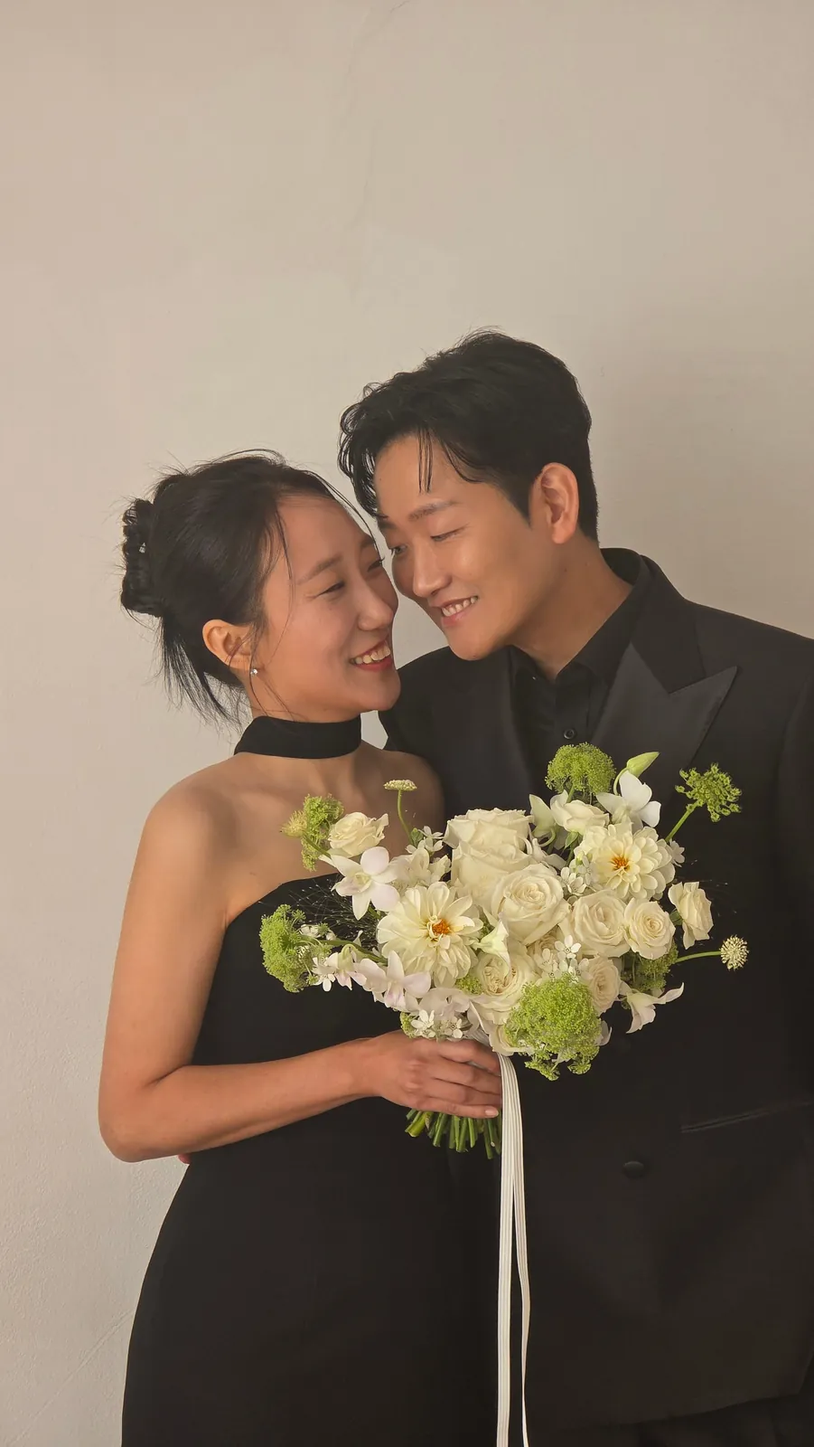
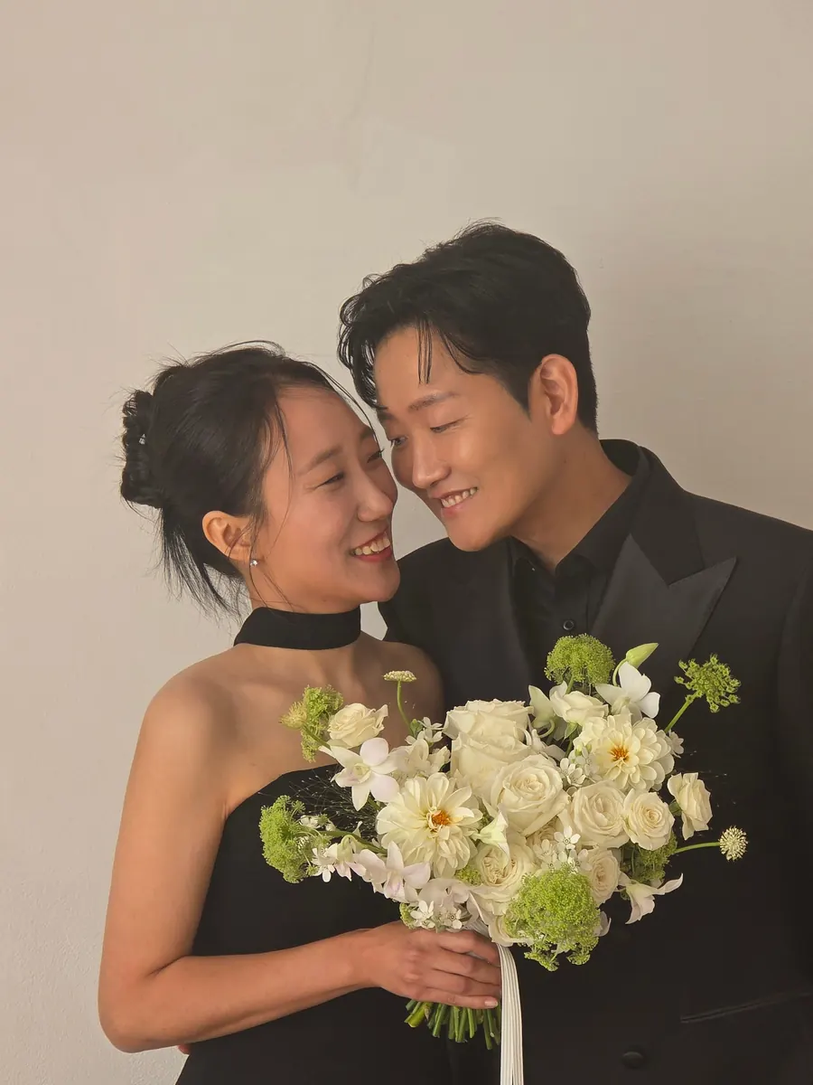
⚡ 사진 로딩 절반으로 줄이고 1년 캐시, 사진 연출 시간 단축
- 사진을 미리 3:4로 잘라 카드 900×1200, 작은 사진 168×224 로 (2.48MB → 1.24MB)
- /images/gallery 는 1년 immutable 캐시, 사진이 바뀌면 ?v=<내용 해시> 로 새로 받음
- 연출 시간: 레트로는 원래보다 약 25%, 터미널은 약 48% 빠르게
  (터미널 ASCII 다운로드 ~0.8초, 레트로 모자이크 0.5초, 카드 넘김 0.27/0.38초)

diff --git a/terminal.html b/terminal.html
@@ -175,7 +175,7 @@
         .stack { position: relative; aspect-ratio: 3 / 4; margin: 18px 12px 0 2px; touch-action: pan-y; user-select: none; -webkit-user-select: none; }
         .stack:focus-visible { outline: 2px solid var(--accent); outline-offset: 8px; }
         .stack .slide { position: absolute; inset: 0; touch-action: pan-y; cursor: grab; contain: layout paint;
-            transition: transform .45s cubic-bezier(.2, .7, .2, 1), opacity .35s; }
+            transition: transform .27s cubic-bezier(.2, .7, .2, 1), opacity .21s; }
         .stack .slide.drag { transition: none; cursor: grabbing; }
         .stack .slide img { display: block; width: 100%; height: 100%; object-fit: cover; object-position: 50% 30%; pointer-events: none; -webkit-user-drag: none; }
         .car-bar { display: flex; align-items: center; margin-top: 28px; }
@@ -188,7 +188,7 @@
         .stack .slide img { border-radius: 8px; background: #0b0b0d; }
         /* download reveal: as the bar fills, the photo is typed out as ASCII art row by row, then fades into the real photo */
         .dl-ascii { position: absolute; left: 8px; top: 8px; width: calc(100% - 16px); height: calc(100% - 42px); border-radius: 8px; background: #0b0b0d; pointer-events: none;
-            transition: opacity .6s, visibility 0s .6s; }
+            transition: opacity .34s, visibility 0s .34s; }
         .stack .slide.got .dl-ascii { opacity: 0; visibility: hidden; }
         .stack .slide::after { content: attr(data-name); position: absolute; left: 14px; bottom: 9px; font-family: var(--mono); font-size: 12px; color: var(--faint); }
         .dl-ov { position: absolute; left: 8px; right: 8px; bottom: 34px; display: flex; align-items: center; gap: 8px; padding: 22px 12px 10px; border-radius: 0 0 8px 8px;
@@ -468,21 +468,21 @@
             <p class="dl-total reveal" id="dl-total" aria-live="polite"></p>
             <div class="reveal">
                 <div class="stack" id="gallery-grid" tabindex="0" aria-label="웨딩 사진 카드, 좌우 화살표로 넘기기">
-                    <div class="slide" data-name="01.jpg" data-thumb="images/gallery/01-s.webp"><img src="images/gallery/01.webp" alt="베일을 쓰고 부케를 든 신부" width="900" height="1600" decoding="async"><canvas class="dl-ascii" aria-hidden="true"></canvas><div class="dl-ov" aria-hidden="true"><span>01.jpg</span><span class="bar">[░░░░░░░░]</span><span class="pct">queued</span></div></div>
-                    <div class="slide" data-name="02.jpg" data-thumb="images/gallery/02-s.webp"><img src="images/gallery/02.webp" alt="흰 턱시도 재킷 차림으로 부케를 든 신랑" width="900" height="1600" loading="lazy" decoding="async"><canvas class="dl-ascii" aria-hidden="true"></canvas><div class="dl-ov" aria-hidden="true"><span>02.jpg</span><span class="bar">[░░░░░░░░]</span><span class="pct">queued</span></div></div>
-                    <div class="slide" data-name="03.jpg" data-thumb="images/gallery/03-s.webp"><img src="images/gallery/03.webp" alt="정원에서 베일을 쓰고 앉은 신부" width="900" height="1600" loading="lazy" decoding="async"><canvas class="dl-ascii" aria-hidden="true"></canvas><div class="dl-ov" aria-hidden="true"><span>03.jpg</span><span class="bar">[░░░░░░░░]</span><span class="pct">queued</span></div></div>
-                    <div class="slide" data-name="04.jpg" data-thumb="images/gallery/04-s.webp"><img src="images/gallery/04.webp" alt="나무 벽 앞 의자에 앉은 신랑" width="900" height="1600" loading="lazy" decoding="async"><canvas class="dl-ascii" aria-hidden="true"></canvas><div class="dl-ov" aria-hidden="true"><span>04.jpg</span><span class="bar">[░░░░░░░░]</span><span class="pct">queued</span></div></div>
-                    <div class="slide" data-name="05.jpg" data-thumb="images/gallery/05-s.webp"><img src="images/gallery/05.webp" alt="창가에서 서로 마주 보는 신랑과 신부" width="900" height="1600" loading="lazy" decoding="async"><canvas class="dl-ascii" aria-hidden="true"></canvas><div class="dl-ov" aria-hidden="true"><span>05.jpg</span><span class="bar">[░░░░░░░░]</span><span class="pct">queued</span></div></div>
-                    <div class="slide" data-name="06.jpg" data-thumb="images/gallery/06-s.webp"><img src="images/gallery/06.webp" alt="베일 아래에서 얼굴을 맞댄 신랑과 신부" width="900" height="1600" loading="lazy" decoding="async"><canvas class="dl-ascii" aria-hidden="true"></canvas><div class="dl-ov" aria-hidden="true"><span>06.jpg</span><span class="bar">[░░░░░░░░]</span><span class="pct">queued</span></div></div>
-                    <div class="slide" data-name="07.jpg" data-thumb="images/gallery/07-s.webp"><img src="images/gallery/07.webp" alt="숲속에서 이마를 맞댄 신랑과 신부" width="900" height="1600" loading="lazy" decoding="async"><canvas class="dl-ascii" aria-hidden="true"></canvas><div class="dl-ov" aria-hidden="true"><span>07.jpg</span><span class="bar">[░░░░░░░░]</span><span class="pct">queued</span></div></div>
-                    <div class="slide" data-name="08.jpg" data-thumb="images/gallery/08-s.webp"><img src="images/gallery/08.webp" alt="나무 아래 정원에서 마주 보는 신랑과 신부" width="900" height="1600" loading="lazy" decoding="async"><canvas class="dl-ascii" aria-hidden="true"></canvas><div class="dl-ov" aria-hidden="true"><span>08.jpg</span><span class="bar">[░░░░░░░░]</span><span class="pct">queued</span></div></div>
-                    <div class="slide" data-name="09.jpg" data-thumb="images/gallery/09-s.webp"><img src="images/gallery/09.webp" alt="정원 잔디에 앉은 신부와 그 앞에 선 신랑" width="900" height="1600" loading="lazy" decoding="async"><canvas class="dl-ascii" aria-hidden="true"></canvas><div class="dl-ov" aria-hidden="true"><span>09.jpg</span><span class="bar">[░░░░░░░░]</span><span class="pct">queued</span></div></div>
-                    <div class="slide" data-name="10.jpg" data-thumb="images/gallery/10-s.webp"><img src="images/gallery/10.webp" alt="검은 드레스와 턱시도 차림으로 기대어 선 신랑과 신부" width="900" height="1600" loading="lazy" decoding="async"><canvas class="dl-ascii" aria-hidden="true"></canvas><div class="dl-ov" aria-hidden="true"><span>10.jpg</span><span class="bar">[░░░░░░░░]</span><span class="pct">queued</span></div></div>
-                    <div class="slide" data-name="11.jpg" data-thumb="images/gallery/11-s.webp"><img src="images/gallery/11.webp" alt="흰 벽 앞에 나란히 서서 웃는 검은 옷차림의 신랑과 신부" width="900" height="1600" loading="lazy" decoding="async"><canvas class="dl-ascii" aria-hidden="true"></canvas><div class="dl-ov" aria-hidden="true"><span>11.jpg</span><span class="bar">[░░░░░░░░]</span><span class="pct">queued</span></div></div>
-                    <div class="slide" data-name="12.jpg" data-thumb="images/gallery/12-s.webp"><img src="images/gallery/12.webp" alt="얼굴을 맞대고 웃는 신랑과 신부" width="900" height="1600" loading="lazy" decoding="async"><canvas class="dl-ascii" aria-hidden="true"></canvas><div class="dl-ov" aria-hidden="true"><span>12.jpg</span><span class="bar">[░░░░░░░░]</span><span class="pct">queued</span></div></div>
-                    <div class="slide" data-name="13.jpg" data-thumb="images/gallery/13-s.webp"><img src="images/gallery/13.webp" alt="나무 벽 앞에서 신랑을 끌어안고 웃는 신부" width="900" height="1600" loading="lazy" decoding="async"><canvas class="dl-ascii" aria-hidden="true"></canvas><div class="dl-ov" aria-hidden="true"><span>13.jpg</span><span class="bar">[░░░░░░░░]</span><span class="pct">queued</span></div></div>
-                    <div class="slide" data-name="14.jpg" data-thumb="images/gallery/14-s.webp"><img src="images/gallery/14.webp" alt="검은 배경 앞에 나란히 선 신랑과 신부" width="900" height="1600" loading="lazy" decoding="async"><canvas class="dl-ascii" aria-hidden="true"></canvas><div class="dl-ov" aria-hidden="true"><span>14.jpg</span><span class="bar">[░░░░░░░░]</span><span class="pct">queued</span></div></div>
-                    <div class="slide" data-name="15.jpg" data-thumb="images/gallery/15-s.webp"><img src="images/gallery/15.webp" alt="햇살 드는 소파에 나란히 앉은 신랑과 신부" width="900" height="1600" loading="lazy" decoding="async"><canvas class="dl-ascii" aria-hidden="true"></canvas><div class="dl-ov" aria-hidden="true"><span>15.jpg</span><span class="bar">[░░░░░░░░]</span><span class="pct">queued</span></div></div>
+                    <div class="slide" data-name="01.jpg" data-thumb="images/gallery/01-s.webp?v=bed827a6"><img src="images/gallery/01.webp?v=bed827a6" alt="베일을 쓰고 부케를 든 신부" width="900" height="1200" decoding="async"><canvas class="dl-ascii" aria-hidden="true"></canvas><div class="dl-ov" aria-hidden="true"><span>01.jpg</span><span class="bar">[░░░░░░░░]</span><span class="pct">queued</span></div></div>
+                    <div class="slide" data-name="02.jpg" data-thumb="images/gallery/02-s.webp?v=bed827a6"><img src="images/gallery/02.webp?v=bed827a6" alt="흰 턱시도 재킷 차림으로 부케를 든 신랑" width="900" height="1200" loading="lazy" decoding="async"><canvas class="dl-ascii" aria-hidden="true"></canvas><div class="dl-ov" aria-hidden="true"><span>02.jpg</span><span class="bar">[░░░░░░░░]</span><span class="pct">queued</span></div></div>
+                    <div class="slide" data-name="03.jpg" data-thumb="images/gallery/03-s.webp?v=bed827a6"><img src="images/gallery/03.webp?v=bed827a6" alt="정원에서 베일을 쓰고 앉은 신부" width="900" height="1200" loading="lazy" decoding="async"><canvas class="dl-ascii" aria-hidden="true"></canvas><div class="dl-ov" aria-hidden="true"><span>03.jpg</span><span class="bar">[░░░░░░░░]</span><span class="pct">queued</span></div></div>
+                    <div class="slide" data-name="04.jpg" data-thumb="images/gallery/04-s.webp?v=bed827a6"><img src="images/gallery/04.webp?v=bed827a6" alt="나무 벽 앞 의자에 앉은 신랑" width="900" height="1200" loading="lazy" decoding="async"><canvas class="dl-ascii" aria-hidden="true"></canvas><div class="dl-ov" aria-hidden="true"><span>04.jpg</span><span class="bar">[░░░░░░░░]</span><span class="pct">queued</span></div></div>
+                    <div class="slide" data-name="05.jpg" data-thumb="images/gallery/05-s.webp?v=bed827a6"><img src="images/gallery/05.webp?v=bed827a6" alt="창가에서 서로 마주 보는 신랑과 신부" width="900" height="1200" loading="lazy" decoding="async"><canvas class="dl-ascii" aria-hidden="true"></canvas><div class="dl-ov" aria-hidden="true"><span>05.jpg</span><span class="bar">[░░░░░░░░]</span><span class="pct">queued</span></div></div>
+                    <div class="slide" data-name="06.jpg" data-thumb="images/gallery/06-s.webp?v=bed827a6"><img src="images/gallery/06.webp?v=bed827a6" alt="베일 아래에서 얼굴을 맞댄 신랑과 신부" width="900" height="1200" loading="lazy" decoding="async"><canvas class="dl-ascii" aria-hidden="true"></canvas><div class="dl-ov" aria-hidden="true"><span>06.jpg</span><span class="bar">[░░░░░░░░]</span><span class="pct">queued</span></div></div>
+                    <div class="slide" data-name="07.jpg" data-thumb="images/gallery/07-s.webp?v=bed827a6"><img src="images/gallery/07.webp?v=bed827a6" alt="숲속에서 이마를 맞댄 신랑과 신부" width="900" height="1200" loading="lazy" decoding="async"><canvas class="dl-ascii" aria-hidden="true"></canvas><div class="dl-ov" aria-hidden="true"><span>07.jpg</span><span class="bar">[░░░░░░░░]</span><span class="pct">queued</span></div></div>
+                    <div class="slide" data-name="08.jpg" data-thumb="images/gallery/08-s.webp?v=bed827a6"><img src="images/gallery/08.webp?v=bed827a6" alt="나무 아래 정원에서 마주 보는 신랑과 신부" width="900" height="1200" loading="lazy" decoding="async"><canvas class="dl-ascii" aria-hidden="true"></canvas><div class="dl-ov" aria-hidden="true"><span>08.jpg</span><span class="bar">[░░░░░░░░]</span><span class="pct">queued</span></div></div>
+                    <div class="slide" data-name="09.jpg" data-thumb="images/gallery/09-s.webp?v=bed827a6"><img src="images/gallery/09.webp?v=bed827a6" alt="정원 잔디에 앉은 신부와 그 앞에 선 신랑" width="900" height="1200" loading="lazy" decoding="async"><canvas class="dl-ascii" aria-hidden="true"></canvas><div class="dl-ov" aria-hidden="true"><span>09.jpg</span><span class="bar">[░░░░░░░░]</span><span class="pct">queued</span></div></div>
+                    <div class="slide" data-name="10.jpg" data-thumb="images/gallery/10-s.webp?v=bed827a6"><img src="images/gallery/10.webp?v=bed827a6" alt="검은 드레스와 턱시도 차림으로 기대어 선 신랑과 신부" width="900" height="1200" loading="lazy" decoding="async"><canvas class="dl-ascii" aria-hidden="true"></canvas><div class="dl-ov" aria-hidden="true"><span>10.jpg</span><span class="bar">[░░░░░░░░]</span><span class="pct">queued</span></div></div>
+                    <div class="slide" data-name="11.jpg" data-thumb="images/gallery/11-s.webp?v=bed827a6"><img src="images/gallery/11.webp?v=bed827a6" alt="흰 벽 앞에 나란히 서서 웃는 검은 옷차림의 신랑과 신부" width="900" height="1200" loading="lazy" decoding="async"><canvas class="dl-ascii" aria-hidden="true"></canvas><div class="dl-ov" aria-hidden="true"><span>11.jpg</span><span class="bar">[░░░░░░░░]</span><span class="pct">queued</span></div></div>
+                    <div class="slide" data-name="12.jpg" data-thumb="images/gallery/12-s.webp?v=bed827a6"><img src="images/gallery/12.webp?v=bed827a6" alt="얼굴을 맞대고 웃는 신랑과 신부" width="900" height="1200" loading="lazy" decoding="async"><canvas class="dl-ascii" aria-hidden="true"></canvas><div class="dl-ov" aria-hidden="true"><span>12.jpg</span><span class="bar">[░░░░░░░░]</span><span class="pct">queued</span></div></div>
+                    <div class="slide" data-name="13.jpg" data-thumb="images/gallery/13-s.webp?v=bed827a6"><img src="images/gallery/13.webp?v=bed827a6" alt="나무 벽 앞에서 신랑을 끌어안고 웃는 신부" width="900" height="1200" loading="lazy" decoding="async"><canvas class="dl-ascii" aria-hidden="true"></canvas><div class="dl-ov" aria-hidden="true"><span>13.jpg</span><span class="bar">[░░░░░░░░]</span><span class="pct">queued</span></div></div>
+                    <div class="slide" data-name="14.jpg" data-thumb="images/gallery/14-s.webp?v=bed827a6"><img src="images/gallery/14.webp?v=bed827a6" alt="검은 배경 앞에 나란히 선 신랑과 신부" width="900" height="1200" loading="lazy" decoding="async"><canvas class="dl-ascii" aria-hidden="true"></canvas><div class="dl-ov" aria-hidden="true"><span>14.jpg</span><span class="bar">[░░░░░░░░]</span><span class="pct">queued</span></div></div>
+                    <div class="slide" data-name="15.jpg" data-thumb="images/gallery/15-s.webp?v=bed827a6"><img src="images/gallery/15.webp?v=bed827a6" alt="햇살 드는 소파에 나란히 앉은 신랑과 신부" width="900" height="1200" loading="lazy" decoding="async"><canvas class="dl-ascii" aria-hidden="true"></canvas><div class="dl-ov" aria-hidden="true"><span>15.jpg</span><span class="bar">[░░░░░░░░]</span><span class="pct">queued</span></div></div>
                 </div>
                 <div class="car-bar">
                     <span class="count"><span class="ps">$</span> next <span id="car-count"></span></span>
@@ -868,7 +868,7 @@
                 b.classList.add('got');
                 saved++;
                 setTotal();
-            }, reduceMotion ? 0 : 250 + j * 160));
+            }, reduceMotion ? 0 : 130 + j * 84));
         }
         // photo → ASCII art on a canvas; draw(f) types out rows up to fraction f (only the new rows each call)
         const RAMP = ' .:-=+*#%@', NOISE = 'ABCDEFGHIJKLMNOPQRSTUVWXYZ0123456789@#$%&*<>{}[]=+-';
@@ -920,7 +920,7 @@
             let art = null;                                       // ASCII renderer, ready once the photo is decoded
             img.decode().catch(() => {}).then(() => { if (img.naturalWidth) art = ascii(c.querySelector('.dl-ascii'), img); else art = { draw() {} }; });
             c.classList.add('loading');
-            const dur = 1300 + Math.random() * 400, t0 = performance.now();
+            const dur = 680 + Math.random() * 210, t0 = performance.now();
             let shown = -1;
             await new Promise((res) => {
                 (function step(now) {
@@ -936,7 +936,7 @@
                     if (p >= 100) res(); else requestAnimationFrame(step);
                 })(t0);
             });
-            await new Promise((r) => setTimeout(r, 350));                    // let the finished ASCII picture sit a beat
+            await new Promise((r) => setTimeout(r, 185));                    // let the finished ASCII picture sit a beat
             c.classList.replace('loading', 'got');
             markSeen(k);
             if (Synth.on) Synth.click();
@@ -996,7 +996,7 @@
             top.classList.remove('drag');
             top.style.transform = `translate(${dir * stack.clientWidth * 1.4}px, ${y + 40}px) rotate(${dir * 24}deg)`;
             top.style.opacity = 0;
-            await wait(380);
+            await wait(230);
             order.push(...order.splice(0, order.indexOf(k)));
             top.classList.add('drag');
             render();
@@ -1021,7 +1021,7 @@
             void el.offsetWidth;
             el.classList.remove('drag');
             render();
-            await wait(380);
+            await wait(230);
             busy = window.galleryBusy = false;
         }
         let id = null, sx = 0, sy = 0, dx = 0, dy = 0, t0 = 0, raf = 0;

diff --git a/retro-game.html b/retro-game.html
@@ -157,7 +157,7 @@
         .stack { position: relative; aspect-ratio: 3 / 4; margin: 24px 14px 0 6px; touch-action: pan-y; user-select: none; -webkit-user-select: none; }
         .stack:focus-visible { outline: 2px solid var(--mint); outline-offset: 8px; }
         .stack .slide { position: absolute; inset: 0; touch-action: pan-y; cursor: grab; contain: layout paint;
-            transition: transform .45s cubic-bezier(.2, .7, .2, 1), opacity .35s; }
+            transition: transform .38s cubic-bezier(.2, .7, .2, 1), opacity .3s; }
         .stack .slide.drag { transition: none; cursor: grabbing; }
         .stack .slide img { display: block; width: 100%; height: 100%; object-fit: cover; object-position: 50% 30%; pointer-events: none; -webkit-user-drag: none; }
         .car-bar { display: flex; align-items: center; margin-top: 30px; }
@@ -407,21 +407,21 @@
                 <div class="dex-head"><span>COLLECTION</span><b id="dex-count" aria-live="polite"></b></div>
                 <div class="dex-bar" aria-hidden="true"><i id="dex-fill"></i></div>
                 <div class="stack" id="gallery-grid" tabindex="0" aria-label="웨딩 사진 카드, 좌우 화살표로 넘기기">
-                    <div class="slide" data-name="01.jpg" data-thumb="images/gallery/01-s.webp"><img src="images/gallery/01.webp" alt="베일을 쓰고 부케를 든 신부" width="900" height="1600" decoding="async"><span class="no">01</span><span class="new" aria-hidden="true">NEW!</span></div>
-                    <div class="slide" data-name="02.jpg" data-thumb="images/gallery/02-s.webp"><img src="images/gallery/02.webp" alt="흰 턱시도 재킷 차림으로 부케를 든 신랑" width="900" height="1600" loading="lazy" decoding="async"><span class="no">02</span><span class="new" aria-hidden="true">NEW!</span></div>
-                    <div class="slide" data-name="03.jpg" data-thumb="images/gallery/03-s.webp"><img src="images/gallery/03.webp" alt="정원에서 베일을 쓰고 앉은 신부" width="900" height="1600" loading="lazy" decoding="async"><span class="no">03</span><span class="new" aria-hidden="true">NEW!</span></div>
-                    <div class="slide" data-name="04.jpg" data-thumb="images/gallery/04-s.webp"><img src="images/gallery/04.webp" alt="나무 벽 앞 의자에 앉은 신랑" width="900" height="1600" loading="lazy" decoding="async"><span class="no">04</span><span class="new" aria-hidden="true">NEW!</span></div>
-                    <div class="slide" data-name="05.jpg" data-thumb="images/gallery/05-s.webp"><img src="images/gallery/05.webp" alt="창가에서 서로 마주 보는 신랑과 신부" width="900" height="1600" loading="lazy" decoding="async"><span class="no">05</span><span class="new" aria-hidden="true">NEW!</span></div>
-                    <div class="slide" data-name="06.jpg" data-thumb="images/gallery/06-s.webp"><img src="images/gallery/06.webp" alt="베일 아래에서 얼굴을 맞댄 신랑과 신부" width="900" height="1600" loading="lazy" decoding="async"><span class="no">06</span><span class="new" aria-hidden="true">NEW!</span></div>
-                    <div class="slide" data-name="07.jpg" data-thumb="images/gallery/07-s.webp"><img src="images/gallery/07.webp" alt="숲속에서 이마를 맞댄 신랑과 신부" width="900" height="1600" loading="lazy" decoding="async"><span class="no">07</span><span class="new" aria-hidden="true">NEW!</span></div>
-                    <div class="slide" data-name="08.jpg" data-thumb="images/gallery/08-s.webp"><img src="images/gallery/08.webp" alt="나무 아래 정원에서 마주 보는 신랑과 신부" width="900" height="1600" loading="lazy" decoding="async"><span class="no">08</span><span class="new" aria-hidden="true">NEW!</span></div>
-                    <div class="slide" data-name="09.jpg" data-thumb="images/gallery/09-s.webp"><img src="images/gallery/09.webp" alt="정원 잔디에 앉은 신부와 그 앞에 선 신랑" width="900" height="1600" loading="lazy" decoding="async"><span class="no">09</span><span class="new" aria-hidden="true">NEW!</span></div>
-                    <div class="slide" data-name="10.jpg" data-thumb="images/gallery/10-s.webp"><img src="images/gallery/10.webp" alt="검은 드레스와 턱시도 차림으로 기대어 선 신랑과 신부" width="900" height="1600" loading="lazy" decoding="async"><span class="no">10</span><span class="new" aria-hidden="true">NEW!</span></div>
-                    <div class="slide" data-name="11.jpg" data-thumb="images/gallery/11-s.webp"><img src="images/gallery/11.webp" alt="흰 벽 앞에 나란히 서서 웃는 검은 옷차림의 신랑과 신부" width="900" height="1600" loading="lazy" decoding="async"><span class="no">11</span><span class="new" aria-hidden="true">NEW!</span></div>
-                    <div class="slide" data-name="12.jpg" data-thumb="images/gallery/12-s.webp"><img src="images/gallery/12.webp" alt="얼굴을 맞대고 웃는 신랑과 신부" width="900" height="1600" loading="lazy" decoding="async"><span class="no">12</span><span class="new" aria-hidden="true">NEW!</span></div>
-                    <div class="slide" data-name="13.jpg" data-thumb="images/gallery/13-s.webp"><img src="images/gallery/13.webp" alt="나무 벽 앞에서 신랑을 끌어안고 웃는 신부" width="900" height="1600" loading="lazy" decoding="async"><span class="no">13</span><span class="new" aria-hidden="true">NEW!</span></div>
-                    <div class="slide" data-name="14.jpg" data-thumb="images/gallery/14-s.webp"><img src="images/gallery/14.webp" alt="검은 배경 앞에 나란히 선 신랑과 신부" width="900" height="1600" loading="lazy" decoding="async"><span class="no">14</span><span class="new" aria-hidden="true">NEW!</span></div>
-                    <div class="slide" data-name="15.jpg" data-thumb="images/gallery/15-s.webp"><img src="images/gallery/15.webp" alt="햇살 드는 소파에 나란히 앉은 신랑과 신부" width="900" height="1600" loading="lazy" decoding="async"><span class="no">15</span><span class="new" aria-hidden="true">NEW!</span></div>
+                    <div class="slide" data-name="01.jpg" data-thumb="images/gallery/01-s.webp?v=bed827a6"><img src="images/gallery/01.webp?v=bed827a6" alt="베일을 쓰고 부케를 든 신부" width="900" height="1200" decoding="async"><span class="no">01</span><span class="new" aria-hidden="true">NEW!</span></div>
+                    <div class="slide" data-name="02.jpg" data-thumb="images/gallery/02-s.webp?v=bed827a6"><img src="images/gallery/02.webp?v=bed827a6" alt="흰 턱시도 재킷 차림으로 부케를 든 신랑" width="900" height="1200" loading="lazy" decoding="async"><span class="no">02</span><span class="new" aria-hidden="true">NEW!</span></div>
+                    <div class="slide" data-name="03.jpg" data-thumb="images/gallery/03-s.webp?v=bed827a6"><img src="images/gallery/03.webp?v=bed827a6" alt="정원에서 베일을 쓰고 앉은 신부" width="900" height="1200" loading="lazy" decoding="async"><span class="no">03</span><span class="new" aria-hidden="true">NEW!</span></div>
+                    <div class="slide" data-name="04.jpg" data-thumb="images/gallery/04-s.webp?v=bed827a6"><img src="images/gallery/04.webp?v=bed827a6" alt="나무 벽 앞 의자에 앉은 신랑" width="900" height="1200" loading="lazy" decoding="async"><span class="no">04</span><span class="new" aria-hidden="true">NEW!</span></div>
+                    <div class="slide" data-name="05.jpg" data-thumb="images/gallery/05-s.webp?v=bed827a6"><img src="images/gallery/05.webp?v=bed827a6" alt="창가에서 서로 마주 보는 신랑과 신부" width="900" height="1200" loading="lazy" decoding="async"><span class="no">05</span><span class="new" aria-hidden="true">NEW!</span></div>
+                    <div class="slide" data-name="06.jpg" data-thumb="images/gallery/06-s.webp?v=bed827a6"><img src="images/gallery/06.webp?v=bed827a6" alt="베일 아래에서 얼굴을 맞댄 신랑과 신부" width="900" height="1200" loading="lazy" decoding="async"><span class="no">06</span><span class="new" aria-hidden="true">NEW!</span></div>
+                    <div class="slide" data-name="07.jpg" data-thumb="images/gallery/07-s.webp?v=bed827a6"><img src="images/gallery/07.webp?v=bed827a6" alt="숲속에서 이마를 맞댄 신랑과 신부" width="900" height="1200" loading="lazy" decoding="async"><span class="no">07</span><span class="new" aria-hidden="true">NEW!</span></div>
+                    <div class="slide" data-name="08.jpg" data-thumb="images/gallery/08-s.webp?v=bed827a6"><img src="images/gallery/08.webp?v=bed827a6" alt="나무 아래 정원에서 마주 보는 신랑과 신부" width="900" height="1200" loading="lazy" decoding="async"><span class="no">08</span><span class="new" aria-hidden="true">NEW!</span></div>
+                    <div class="slide" data-name="09.jpg" data-thumb="images/gallery/09-s.webp?v=bed827a6"><img src="images/gallery/09.webp?v=bed827a6" alt="정원 잔디에 앉은 신부와 그 앞에 선 신랑" width="900" height="1200" loading="lazy" decoding="async"><span class="no">09</span><span class="new" aria-hidden="true">NEW!</span></div>
+                    <div class="slide" data-name="10.jpg" data-thumb="images/gallery/10-s.webp?v=bed827a6"><img src="images/gallery/10.webp?v=bed827a6" alt="검은 드레스와 턱시도 차림으로 기대어 선 신랑과 신부" width="900" height="1200" loading="lazy" decoding="async"><span class="no">10</span><span class="new" aria-hidden="true">NEW!</span></div>
+                    <div class="slide" data-name="11.jpg" data-thumb="images/gallery/11-s.webp?v=bed827a6"><img src="images/gallery/11.webp?v=bed827a6" alt="흰 벽 앞에 나란히 서서 웃는 검은 옷차림의 신랑과 신부" width="900" height="1200" loading="lazy" decoding="async"><span class="no">11</span><span class="new" aria-hidden="true">NEW!</span></div>
+                    <div class="slide" data-name="12.jpg" data-thumb="images/gallery/12-s.webp?v=bed827a6"><img src="images/gallery/12.webp?v=bed827a6" alt="얼굴을 맞대고 웃는 신랑과 신부" width="900" height="1200" loading="lazy" decoding="async"><span class="no">12</span><span class="new" aria-hidden="true">NEW!</span></div>
+                    <div class="slide" data-name="13.jpg" data-thumb="images/gallery/13-s.webp?v=bed827a6"><img src="images/gallery/13.webp?v=bed827a6" alt="나무 벽 앞에서 신랑을 끌어안고 웃는 신부" width="900" height="1200" loading="lazy" decoding="async"><span class="no">13</span><span class="new" aria-hidden="true">NEW!</span></div>
+                    <div class="slide" data-name="14.jpg" data-thumb="images/gallery/14-s.webp?v=bed827a6"><img src="images/gallery/14.webp?v=bed827a6" alt="검은 배경 앞에 나란히 선 신랑과 신부" width="900" height="1200" loading="lazy" decoding="async"><span class="no">14</span><span class="new" aria-hidden="true">NEW!</span></div>
+                    <div class="slide" data-name="15.jpg" data-thumb="images/gallery/15-s.webp?v=bed827a6"><img src="images/gallery/15.webp?v=bed827a6" alt="햇살 드는 소파에 나란히 앉은 신랑과 신부" width="900" height="1200" loading="lazy" decoding="async"><span class="no">15</span><span class="new" aria-hidden="true">NEW!</span></div>
                 </div>
                 <div class="car-bar">
                     <span class="count">SCREENSHOT <b id="car-count"></b></span>
@@ -802,7 +802,7 @@
             cv.width = cw; cv.height = ch;
             cv.getContext('2d').drawImage(img, sx, sy, sw, sh, 0, 0, cw, ch);
         }
-        async function mosaic(c) {                                // big pixels → sharper in 6 steps, then the real photo
+        async function mosaic(c) {                                // big pixels → sharper in 5 quick steps, then the real photo
             const img = c.querySelector('img');
             await img.decode().catch(() => {});
             if (!img.naturalWidth) { c.classList.add('open'); return; }
@@ -810,10 +810,10 @@
             cv.className = 'mosaic';
             cv.setAttribute('aria-hidden', 'true');
             c.appendChild(cv);
-            for (const cells of [4, 7, 12, 20, 36, 64]) {
+            for (const cells of [4, 8, 16, 32, 64]) {
                 drawMosaic(cv, img, cells);
                 c.classList.add('open');
-                await new Promise((r) => setTimeout(r, 110));
+                await new Promise((r) => setTimeout(r, 100));
             }
             cv.remove();
         }
@@ -891,7 +891,7 @@
             top.classList.remove('drag');
             top.style.transform = `translate(${dir * stack.clientWidth * 1.4}px, ${y + 40}px) rotate(${dir * 24}deg)`;
             top.style.opacity = 0;
-            await wait(380);
+            await wait(325);
             order.push(...order.splice(0, order.indexOf(k)));
             top.classList.add('drag');
             render();
@@ -916,7 +916,7 @@
             void el.offsetWidth;
             el.classList.remove('drag');
             render();
-            await wait(380);
+            await wait(325);
             busy = window.galleryBusy = false;
         }
         let id = null, sx = 0, sy = 0, dx = 0, dy = 0, t0 = 0, raf = 0;
